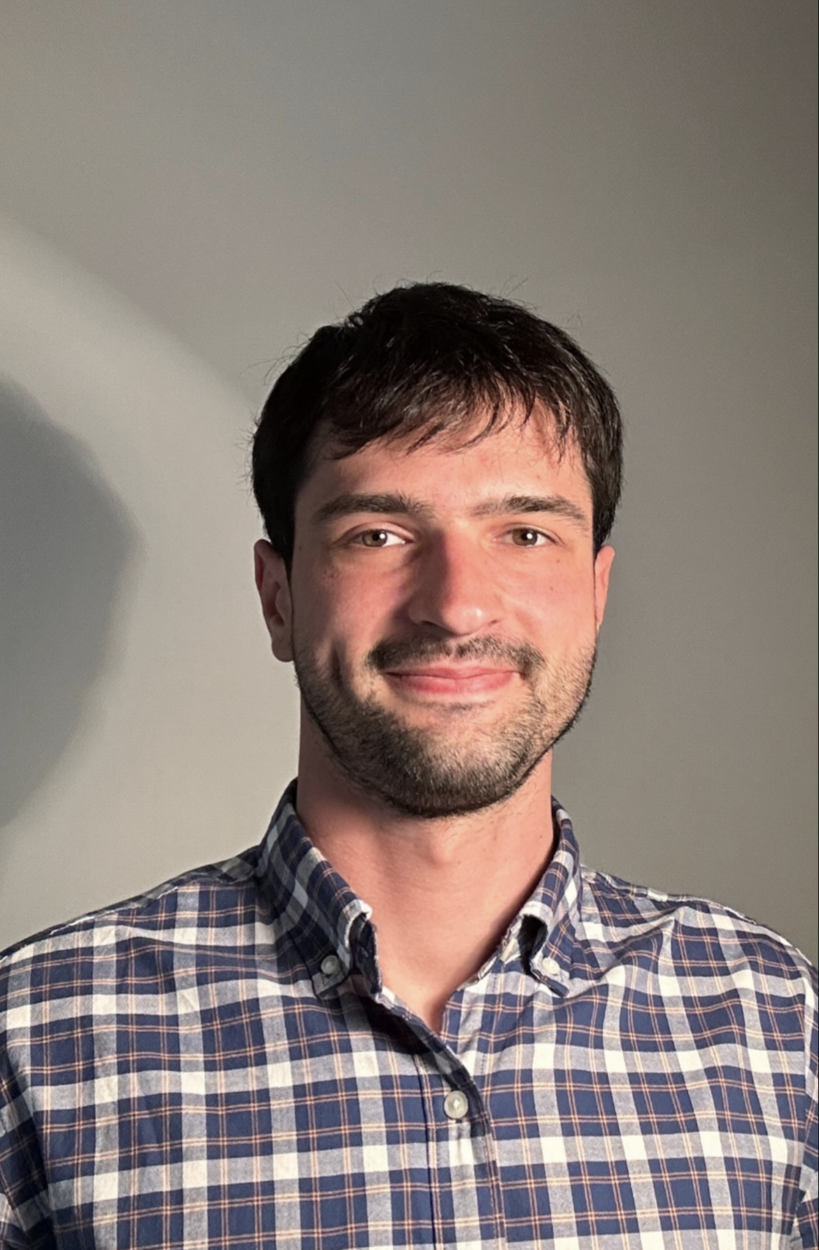
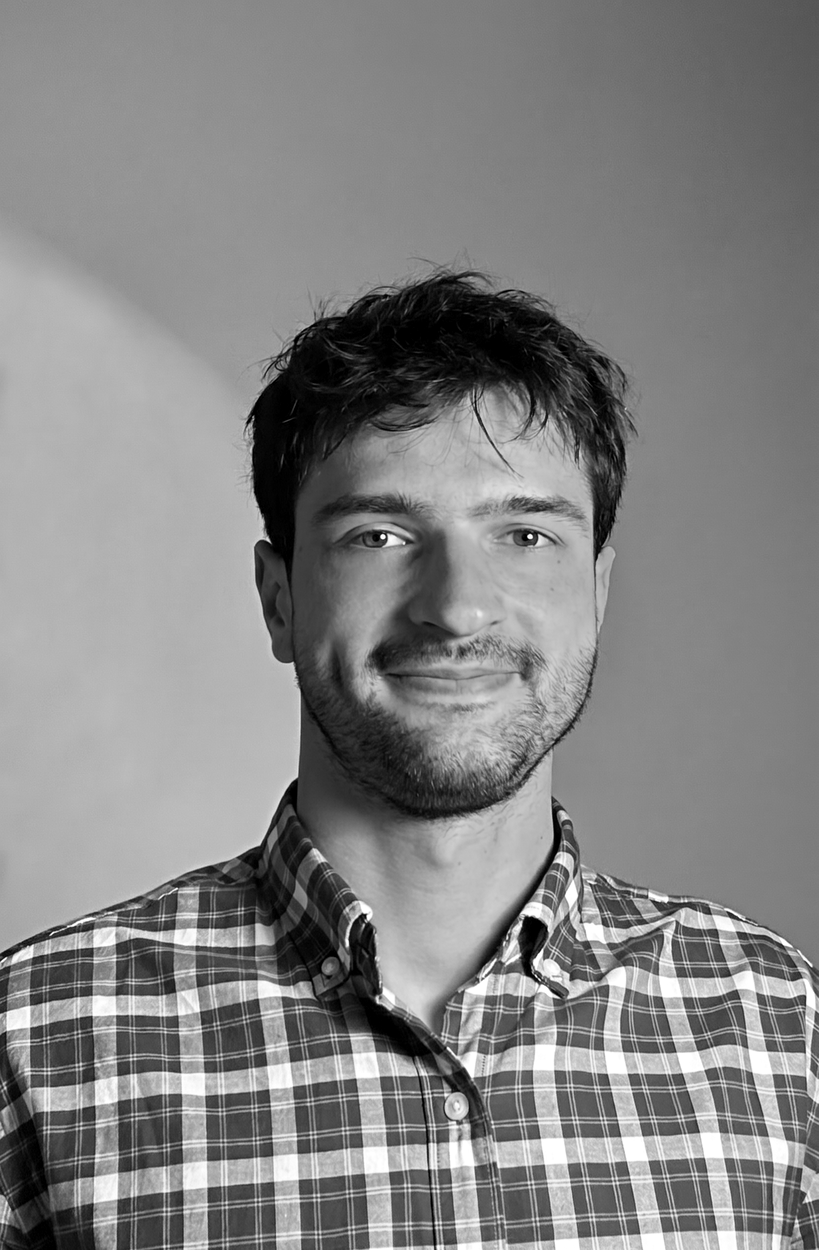
Add email signature assets

diff --git a/public/brand/email-signature/signature-option-2-preview.html b/public/brand/email-signature/signature-option-2-preview.html
@@ -1,0 +1,61 @@
+<!doctype html>
+<html lang="en">
+  <head>
+    <meta charset="utf-8">
+    <title>Eldar Jahic Email Signature Preview</title>
+    <link rel="preconnect" href="https://fonts.googleapis.com">
+    <link rel="preconnect" href="https://fonts.gstatic.com" crossorigin>
+    <link href="https://fonts.googleapis.com/css2?family=Manrope:wght@400;600;700&display=swap" rel="stylesheet">
+  </head>
+  <body style="margin:0; padding:40px; background:#f7f7f4;">
+    <div style="max-width:680px; padding:32px; background:#ffffff; border:1px solid #e3e3dc; border-radius:18px;">
+      <table role="presentation" cellpadding="0" cellspacing="0" border="0" style="width:100%; max-width:560px; font-family:Manrope, Arial, Helvetica, sans-serif; color:#171714; border-collapse:collapse;">
+        <tr>
+          <td width="116" valign="middle" style="width:116px; padding:0 18px 0 0; vertical-align:middle;">
+            <img
+              src="./eldar-portrait-bw.png"
+              width="104"
+              height="104"
+              alt="Eldar Jahic"
+              style="display:block; width:104px; height:104px; border-radius:52px; border:1px solid #d8d8d2; object-fit:cover;"
+            >
+          </td>
+          <td valign="top" style="padding:0 0 0 18px; border-left:1px solid #d9ddd9;">
+            <table role="presentation" cellpadding="0" cellspacing="0" border="0" style="border-collapse:collapse;">
+              <tr>
+                <td valign="middle" style="padding:0 9px 5px 0; font-size:18px; line-height:22px; font-weight:700; letter-spacing:-0.02em; color:#171714;">
+                  Eldar Jahic
+                </td>
+                <td valign="middle" style="padding:0 0 5px 0;">
+                  <img
+                    src="./uroboros-logo-black.png"
+                    width="32"
+                    height="16"
+                    alt="Uroboros Systems logo"
+                    style="display:block; width:32px; height:16px; border:0;"
+                  >
+                </td>
+              </tr>
+            </table>
+
+            <div style="font-size:13px; line-height:18px; font-weight:700; color:#4b5148; margin:0 0 8px 0;">
+              Uroboros Systems
+            </div>
+
+            <div style="font-size:13px; line-height:19px; color:#4f574d; max-width:390px; margin:0 0 11px 0;">
+              I fix friction in how businesses run and how customers experience them.
+            </div>
+
+            <div style="font-size:12px; line-height:18px; color:#697064; margin:0;">
+              <a href="https://uroboros.digital" style="color:#171714; text-decoration:none; font-weight:700;">uroboros.digital</a>
+              <span style="color:#b8beb2;">&nbsp;/&nbsp;</span>
+              <a href="https://www.linkedin.com/company/113171953" style="color:#171714; text-decoration:none; font-weight:700;">LinkedIn</a>
+              <span style="color:#b8beb2;">&nbsp;/&nbsp;</span>
+              <a href="https://calendly.com/eldar-jahic-gb/30min" style="color:#171714; text-decoration:none; font-weight:700;">Book a call</a>
+            </div>
+          </td>
+        </tr>
+      </table>
+    </div>
+  </body>
+</html>

diff --git a/public/brand/email-signature/signature-option-2.html b/public/brand/email-signature/signature-option-2.html
@@ -1,0 +1,56 @@
+<!doctype html>
+<html lang="en">
+  <head>
+    <meta charset="utf-8">
+    <title>Eldar Jahic Email Signature</title>
+  </head>
+  <body style="margin:0; padding:24px; background:#ffffff;">
+    <table role="presentation" cellpadding="0" cellspacing="0" border="0" style="width:100%; max-width:560px; font-family:Manrope, Arial, Helvetica, sans-serif; color:#171714; border-collapse:collapse;">
+      <tr>
+        <td width="116" valign="middle" style="width:116px; padding:0 18px 0 0; vertical-align:middle;">
+          <img
+            src="https://uroboros.digital/brand/email-signature/eldar-portrait-bw.png"
+            width="104"
+            height="104"
+            alt="Eldar Jahic"
+            style="display:block; width:104px; height:104px; border-radius:52px; border:1px solid #d8d8d2; object-fit:cover;"
+          >
+        </td>
+        <td valign="top" style="padding:0 0 0 18px; border-left:1px solid #d9ddd9;">
+          <table role="presentation" cellpadding="0" cellspacing="0" border="0" style="border-collapse:collapse;">
+            <tr>
+              <td valign="middle" style="padding:0 9px 5px 0; font-size:18px; line-height:22px; font-weight:700; letter-spacing:-0.02em; color:#171714;">
+                Eldar Jahic
+              </td>
+              <td valign="middle" style="padding:0 0 5px 0;">
+                <img
+                  src="https://uroboros.digital/brand/email-signature/uroboros-logo-black.png"
+                  width="32"
+                  height="16"
+                  alt="Uroboros Systems logo"
+                  style="display:block; width:32px; height:16px; border:0;"
+                >
+              </td>
+            </tr>
+          </table>
+
+          <div style="font-size:13px; line-height:18px; font-weight:700; color:#4b5148; margin:0 0 8px 0;">
+            Uroboros Systems
+          </div>
+
+          <div style="font-size:13px; line-height:19px; color:#4f574d; max-width:390px; margin:0 0 11px 0;">
+            I fix friction in how businesses run and how customers experience them.
+          </div>
+
+          <div style="font-size:12px; line-height:18px; color:#697064; margin:0;">
+            <a href="https://uroboros.digital" style="color:#171714; text-decoration:none; font-weight:700;">uroboros.digital</a>
+            <span style="color:#b8beb2;">&nbsp;/&nbsp;</span>
+            <a href="https://www.linkedin.com/company/113171953" style="color:#171714; text-decoration:none; font-weight:700;">LinkedIn</a>
+            <span style="color:#b8beb2;">&nbsp;/&nbsp;</span>
+            <a href="https://calendly.com/eldar-jahic-gb/30min" style="color:#171714; text-decoration:none; font-weight:700;">Book a call</a>
+          </div>
+        </td>
+      </tr>
+    </table>
+  </body>
+</html>

diff --git a/public/brand/email-signature/README.md b/public/brand/email-signature/README.md
@@ -1,0 +1,16 @@
+# Email Signature
+
+Option 2 brand-forward signature.
+
+Files:
+- `signature-option-2.html`: email-ready version using hosted image URLs
+- `signature-option-2-preview.html`: local browser preview using local image paths
+- `eldar-portrait-bw.png`: black-and-white portrait crop
+- `uroboros-logo-green.png`: compact green logo
+- `uroboros-logo-chip.png`: compact dark logo chip used in the signature
+- `uroboros-logo-black.png`: black logo used next to the name
+
+Notes:
+- Email clients do not reliably load custom fonts, so the signature uses `Manrope` first with Arial/Helvetica fallbacks.
+- The email-ready file assumes the site is deployed at `https://uroboros.digital`.
+- If you want to use a personal LinkedIn profile instead of the company page, replace the LinkedIn URL in the HTML.
